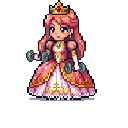
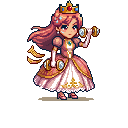
feat: replace lift sprites with new dumbbell princess pair
Both frames extracted from new sprite sheet (5ddwt8...png) at standard
128 canvas, body height 101 matching the rest of the princess family.
Cache-bust ?v=2 on the image URLs.

Changed region(s): [[0.1875, 0.0, 0.7812, 0.8125]]

diff --git a/index.html b/index.html
@@ -537,8 +537,8 @@ function pixelPrincess(prop){
     // Two-frame strength-workout animation (1s per frame)
     return '<div class="princess-wrap">'
       +'<div class="princess-lift-stack">'
-      +'<img class="lift-frame f1" src="princess-lift1.png" alt="공주" draggable="false"/>'
-      +'<img class="lift-frame f2" src="princess-lift2.png" alt="공주" draggable="false"/>'
+      +'<img class="lift-frame f1" src="princess-lift1.png?v=2" alt="공주" draggable="false"/>'
+      +'<img class="lift-frame f2" src="princess-lift2.png?v=2" alt="공주" draggable="false"/>'
       +'</div>'
       +'</div>';
   }
